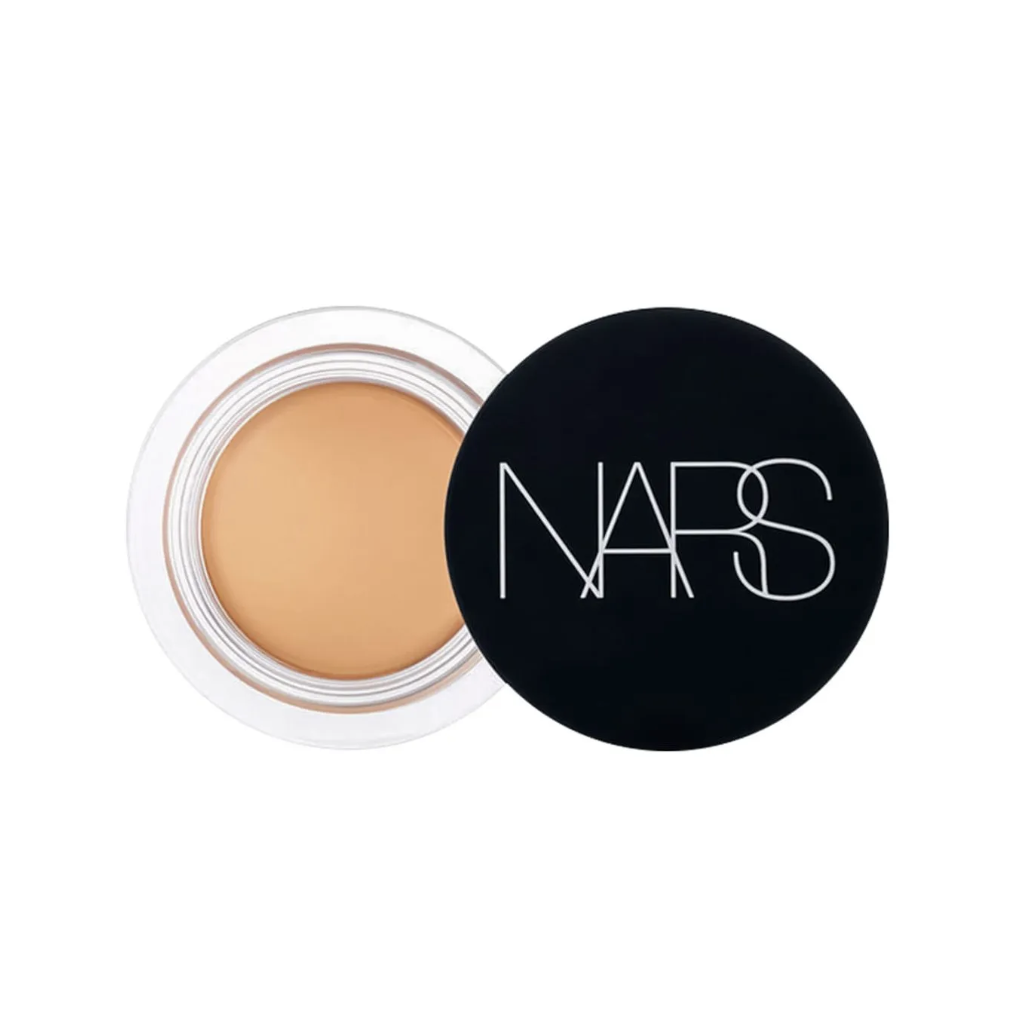
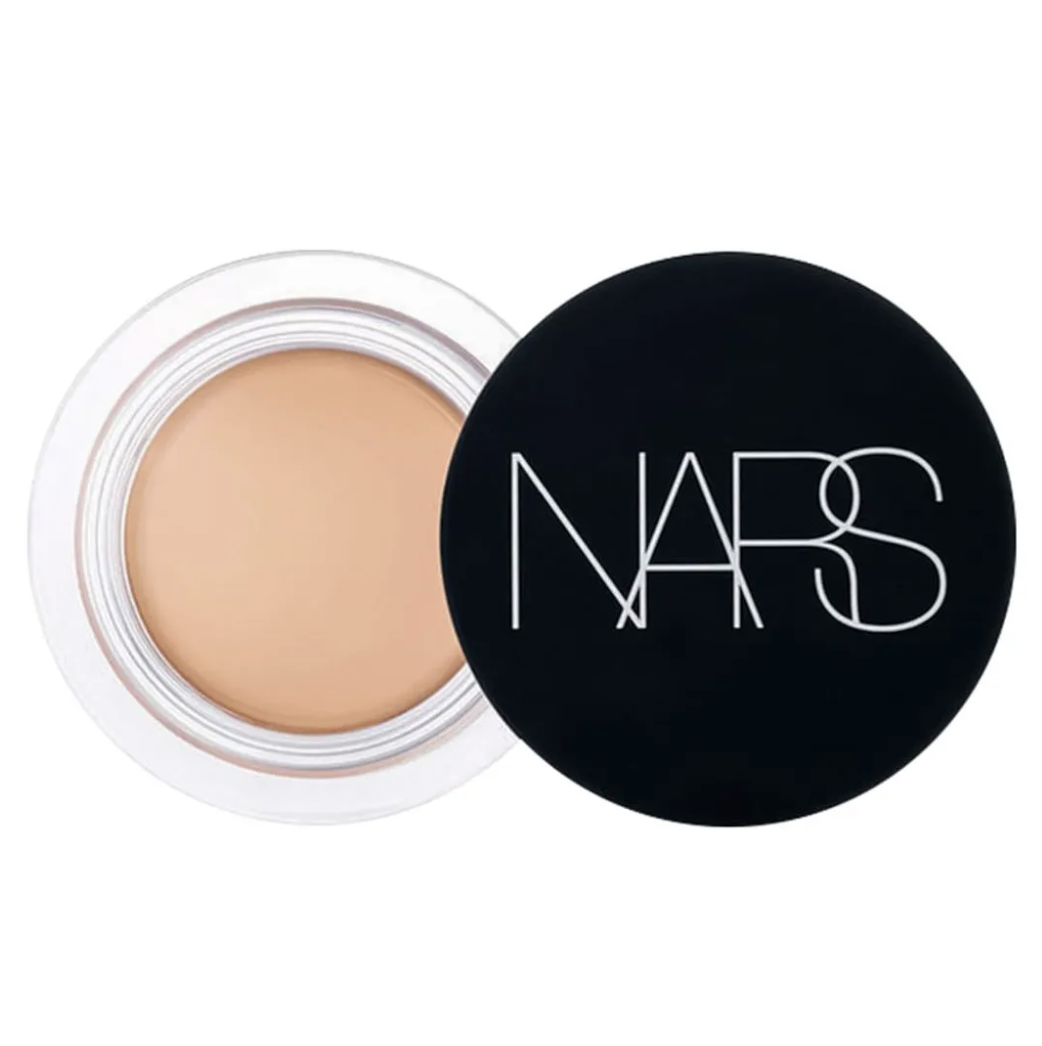
Link concealer images and refine NARS purchase tag

Changed region(s): [[0.0621, 0.2188, 0.9942, 0.8125], [0.2485, 0.2188, 0.3728, 0.25], [0.1243, 0.2812, 0.1553, 0.3125]]

diff --git a/produtos-corretivo.html b/produtos-corretivo.html
@@ -12,7 +12,7 @@
 <style>
 .mini{grid-template-columns:repeat(4,1fr)}
 .brushgrid{grid-template-columns:repeat(4,1fr)}
-.pic{position:relative}.pic>a{width:100%;height:100%;display:grid;place-items:center}.buy{position:absolute;top:14px;left:14px;padding:7px 9px;background:#d98e9b;color:#fff;font-size:9px;font-weight:600;letter-spacing:.13em;text-transform:uppercase}
+.pic{position:relative}.pic>a{width:100%;height:100%;display:grid;place-items:center}.badges{display:flex;align-items:center;gap:7px;flex-wrap:wrap}.badges .shade{align-self:auto}.buy-tag{padding:7px 9px;background:#d98e9b;color:#fff;font-size:9px;font-weight:600;letter-spacing:.08em;text-transform:uppercase}
 @media(max-width:1040px){.brushgrid{grid-template-columns:repeat(2,1fr)}}
 @media(max-width:720px){.mini{grid-template-columns:repeat(2,1fr)}.brushgrid{grid-template-columns:1fr}}
 </style>
@@ -67,7 +67,7 @@
 </article>
 <article class="card">
 <figure class="pic">
-<img src="assets/corretivo-dior-forever-skin-correct-2-warm.png" alt="Corretivo Dior Forever Skin Correct na cor 2 Warm">
+<a href="https://www.dior.com/pt_br/beauty/products/dior-forever-skin-correct-Y0326000.html" target="_blank" rel="noopener noreferrer" aria-label="Ver Dior Forever Skin Correct no site da Dior"><img src="assets/corretivo-dior-forever-skin-correct-2-warm.png" alt="Corretivo Dior Forever Skin Correct na cor 2 Warm"></a>
 </figure>
 <div class="inside">
 <div class="maker">Dior</div>
@@ -85,7 +85,7 @@
 </article>
 <article class="card">
 <figure class="pic">
-<img src="assets/corretivo-laura-mercier-real-flawless.png" alt="Corretivo Laura Mercier Real Flawless Weightless Perfecting">
+<a href="https://www.lauramercier.com/en-br/products/real-flawless-weightless-perfecting-concealer?variant=44222821073135" target="_blank" rel="noopener noreferrer" aria-label="Ver corretivo Laura Mercier no site oficial"><img src="assets/corretivo-laura-mercier-real-flawless.png" alt="Corretivo Laura Mercier Real Flawless Weightless Perfecting"></a>
 </figure>
 <div class="inside">
 <div class="maker">Laura Mercier</div>
@@ -111,7 +111,7 @@
 </article>
 <article class="card">
 <figure class="pic">
-<img src="assets/corretivo-armani-luminous-silk.png" alt="Corretivo Giorgio Armani Luminous Silk">
+<a href="https://www.giorgioarmanibeauty-usa.com/makeup/face/concealer/luminous-silk-hydrating-brightening-concealer/A2266.html?dwvar_A2266_color=4%20-%20LIGHT%2C%20GOLDEN" target="_blank" rel="noopener noreferrer" aria-label="Ver corretivo Giorgio Armani no site oficial"><img src="assets/corretivo-armani-luminous-silk.png" alt="Corretivo Giorgio Armani Luminous Silk"></a>
 </figure>
 <div class="inside">
 <div class="maker">Giorgio Armani</div>
@@ -137,7 +137,7 @@
 </article>
 <article class="card">
 <figure class="pic">
-<img src="assets/produto-estee-lauder-double-wear.png" alt="Corretivo Estée Lauder Double Wear">
+<a href="https://www.esteelauder.com.br/product/642/131399/produtos/maquiagem/rosto/corretivos/corretivo-liquido-de-longa-duracao-double-wear#/shade/2W" target="_blank" rel="noopener noreferrer" aria-label="Ver corretivo Estée Lauder no site oficial"><img src="assets/produto-estee-lauder-double-wear.png" alt="Corretivo Estée Lauder Double Wear"></a>
 </figure>
 <div class="inside">
 <div class="maker">Estée Lauder</div>
@@ -163,13 +163,12 @@
 </article>
 <article class="card">
 <figure class="pic">
-<img src="assets/corretivo-nars-soft-matte-cannelle.png" alt="Corretivo NARS Soft Matte Complete na cor L2.75 Cannelle">
-<a class="buy" href="https://www.narscosmetics.com.br/nars-soft-matte-complete-concealer-6-2g-34101280/p?skuId=76" target="_blank" rel="noopener noreferrer">Comprar</a>
+<a href="https://www.narscosmetics.com.br/nars-soft-matte-complete-concealer-6-2g-34101280/p?skuId=76" target="_blank" rel="noopener noreferrer" aria-label="Comprar corretivo NARS"><img src="assets/corretivo-nars-soft-matte-cannelle.png" alt="Corretivo NARS Soft Matte Complete na cor L2.75 Cannelle"></a>
 </figure>
 <div class="inside">
 <div class="maker">NARS</div>
 <h2>Soft Matte Complete Concealer</h2>
-<div class="shade">Cor · L2.75 Cannelle</div>
+<div class="badges"><div class="shade">Cor · L2.75 Cannelle</div><a class="buy-tag" href="https://www.narscosmetics.com.br/nars-soft-matte-complete-concealer-6-2g-34101280/p?skuId=76" target="_blank" rel="noopener noreferrer">Comprar</a></div>
 <p>Desfoca e suaviza texturas irregulares, escondendo pontos escuros, olheiras, vermelhidão e acne com efeito soft mate.</p>
 <div class="tools">Pincéis para aplicar</div>
 <div class="mini">
